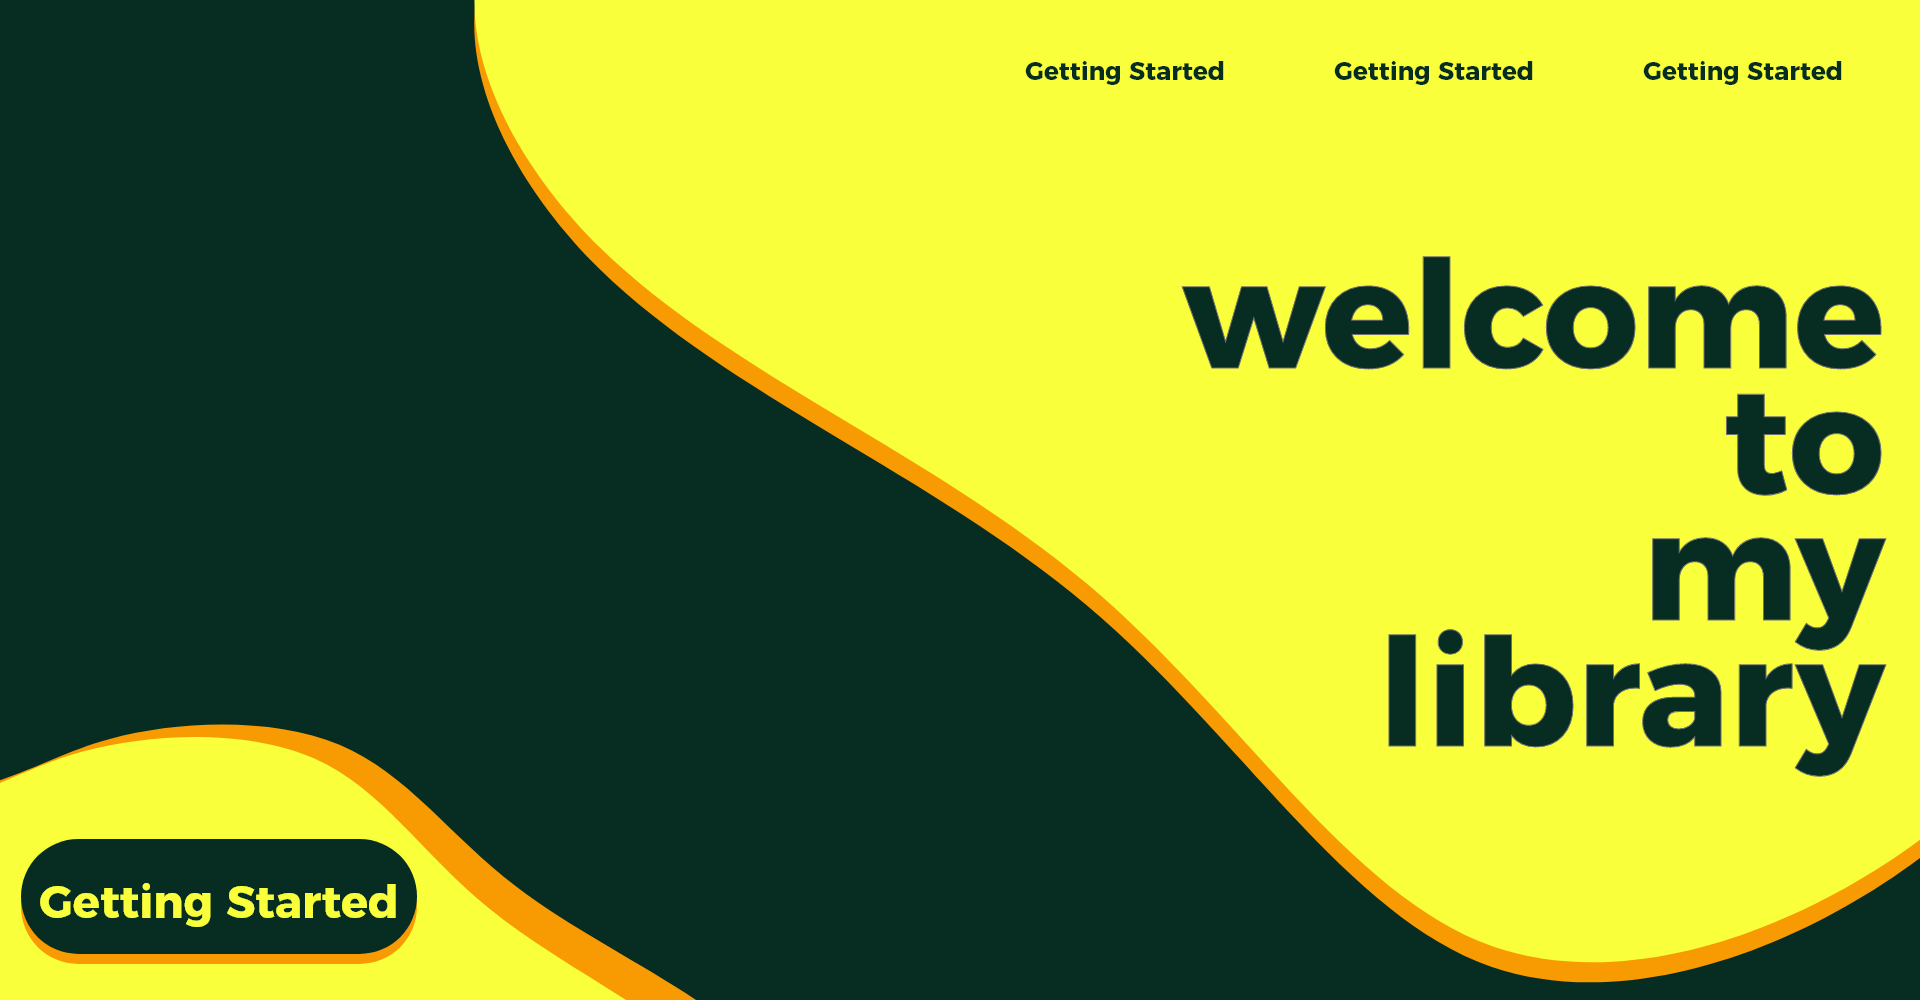
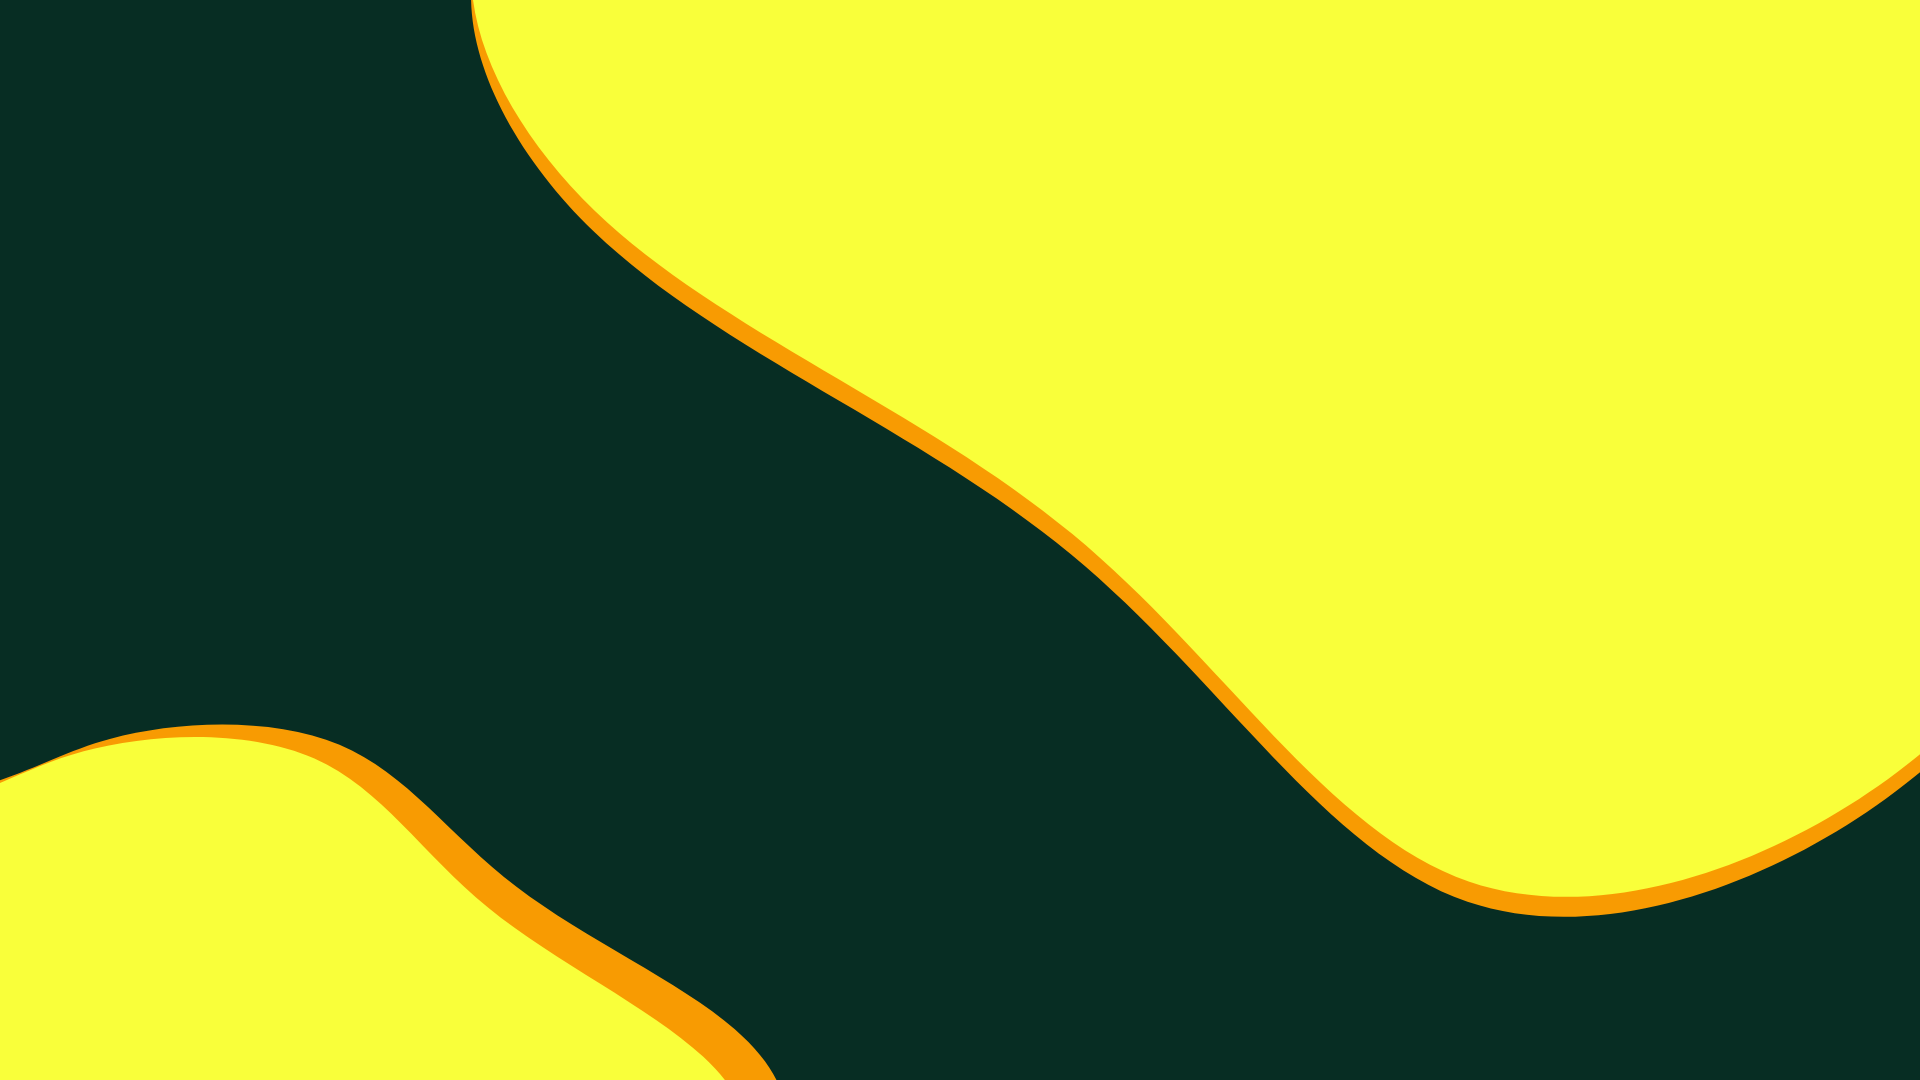
update

diff --git a/landing.css b/landing.css
@@ -1,0 +1,104 @@
+*{
+    margin: 0;
+    padding: 0;
+    font-family: 'Poppins', sans-serif;
+
+}
+:root {
+    --backgroundColor: rgba(7,45,35,1);
+    --colorShadeA: rgba(248,155,2,1);
+
+  } 
+.landing
+{
+    background-image: url(/assests/mm/landing.png);
+    min-height: 100vh;
+    width: 100%;
+     background-size: cover;
+    position: relative ;
+}
+.welcome
+{     
+		position: relative;
+		overflow: visible;
+		font-size: 400px;
+        line-height: 0.8;
+		text-align: right;
+		font-family: Montserrat;
+		font-style: normal;
+		font-weight: bolder;
+		color: rgba(7,45,35,1);
+        padding-right: 150px;
+        padding-top:400px
+}
+.Group_btn 
+{
+    font-size: 50px;
+
+  } 
+  
+  button {
+    position: relative;
+    display: inline-block;
+    cursor: pointer;
+    outline: none;
+    border: 0;
+    vertical-align: middle;
+    text-decoration: none;
+    font-size: inherit;
+    font-family: inherit;
+  }
+  
+  button.learn-more {
+    font-weight: 600;
+    color: #F9FF3A;
+    text-transform: uppercase;
+    padding: 1.25em 2em;
+    background: #072D23;
+    border-radius: 60px;
+    -webkit-transform-style: preserve-3d;
+            transform-style: preserve-3d;
+    -webkit-transition: background 150ms cubic-bezier(0, 0, 0.58, 1), -webkit-transform 150ms cubic-bezier(0, 0, 0.58, 1);
+    transition: background 150ms cubic-bezier(0, 0, 0.58, 1), -webkit-transform 150ms cubic-bezier(0, 0, 0.58, 1);
+    transition: transform 150ms cubic-bezier(0, 0, 0.58, 1), background 150ms cubic-bezier(0, 0, 0.58, 1);
+    transition: transform 150ms cubic-bezier(0, 0, 0.58, 1), background 150ms cubic-bezier(0, 0, 0.58, 1), -webkit-transform 150ms cubic-bezier(0, 0, 0.58, 1);
+  }
+  
+  button.learn-more::before {
+    position: absolute;
+    content: '';
+    width: 100%;
+    height: 100%;
+    top: 0;
+    left: 0;
+    right: 0;
+    bottom: 0;
+    background: #F89B02;
+    border-radius: inherit;
+    -webkit-transform: translate3d(0, 0.5em, -1em);
+            transform: translate3d(0, 0.5em, -1em);
+    -webkit-transition: -webkit-transform 150ms cubic-bezier(0, 0, 0.58, 1), -webkit-box-shadow 150ms cubic-bezier(0, 0, 0.58, 1);
+    transition: -webkit-transform 150ms cubic-bezier(0, 0, 0.58, 1), -webkit-box-shadow 150ms cubic-bezier(0, 0, 0.58, 1);
+    transition: transform 150ms cubic-bezier(0, 0, 0.58, 1), box-shadow 150ms cubic-bezier(0, 0, 0.58, 1);
+    transition: transform 150ms cubic-bezier(0, 0, 0.58, 1), box-shadow 150ms cubic-bezier(0, 0, 0.58, 1), -webkit-transform 150ms cubic-bezier(0, 0, 0.58, 1), -webkit-box-shadow 150ms cubic-bezier(0, 0, 0.58, 1);
+  }
+  
+  button.learn-more:hover {
+    background: #072D23;
+    -webkit-transform: translate(0, 0.25em);
+            transform: translate(0, 0.25em);
+  }
+  
+  button.learn-more:active {
+    background: #072D23;
+    -webkit-transform: translate(0em, 0.75em);
+            transform: translate(0em, 0.75em);
+  }
+  
+  button.learn-more:active::before {
+    -webkit-box-shadow: 0 0 0 2px #b18597, 0 0 #ffe3e2;
+            box-shadow: 0 0 0 2px #b18597, 0 0 #ffe3e2;
+    -webkit-transform: translate3d(0, 0, -1em);
+            transform: translate3d(0, 0, -1em);
+  }
+  /*# sourceMappingURL=button.css.map */

diff --git a/button.css b/button.css
@@ -1,0 +1,82 @@
+.Group_btn {
+  font-family: 'Rubik', sans-serif;
+  font-size: 50px;
+  line-height: 1.5;
+  display: -webkit-box;
+  display: -ms-flexbox;
+  display: flex;
+  -webkit-box-align: center;
+      -ms-flex-align: center;
+          align-items: center;
+  -webkit-box-pack: center;
+      -ms-flex-pack: center;
+          justify-content: center;
+  margin: 0;
+  min-height: 100vh;
+}
+
+button {
+  position: relative;
+  display: inline-block;
+  cursor: pointer;
+  outline: none;
+  border: 0;
+  vertical-align: middle;
+  text-decoration: none;
+  font-size: inherit;
+  font-family: inherit;
+}
+
+button.learn-more {
+  font-weight: 600;
+  color: #F9FF3A;
+  text-transform: uppercase;
+  padding: 1.25em 2em;
+  background: #072D23;
+  border-radius: 60px;
+  -webkit-transform-style: preserve-3d;
+          transform-style: preserve-3d;
+  -webkit-transition: background 150ms cubic-bezier(0, 0, 0.58, 1), -webkit-transform 150ms cubic-bezier(0, 0, 0.58, 1);
+  transition: background 150ms cubic-bezier(0, 0, 0.58, 1), -webkit-transform 150ms cubic-bezier(0, 0, 0.58, 1);
+  transition: transform 150ms cubic-bezier(0, 0, 0.58, 1), background 150ms cubic-bezier(0, 0, 0.58, 1);
+  transition: transform 150ms cubic-bezier(0, 0, 0.58, 1), background 150ms cubic-bezier(0, 0, 0.58, 1), -webkit-transform 150ms cubic-bezier(0, 0, 0.58, 1);
+}
+
+button.learn-more::before {
+  position: absolute;
+  content: '';
+  width: 100%;
+  height: 100%;
+  top: 0;
+  left: 0;
+  right: 0;
+  bottom: 0;
+  background: #F89B02;
+  border-radius: inherit;
+  -webkit-transform: translate3d(0, 0.5em, -1em);
+          transform: translate3d(0, 0.5em, -1em);
+  -webkit-transition: -webkit-transform 150ms cubic-bezier(0, 0, 0.58, 1), -webkit-box-shadow 150ms cubic-bezier(0, 0, 0.58, 1);
+  transition: -webkit-transform 150ms cubic-bezier(0, 0, 0.58, 1), -webkit-box-shadow 150ms cubic-bezier(0, 0, 0.58, 1);
+  transition: transform 150ms cubic-bezier(0, 0, 0.58, 1), box-shadow 150ms cubic-bezier(0, 0, 0.58, 1);
+  transition: transform 150ms cubic-bezier(0, 0, 0.58, 1), box-shadow 150ms cubic-bezier(0, 0, 0.58, 1), -webkit-transform 150ms cubic-bezier(0, 0, 0.58, 1), -webkit-box-shadow 150ms cubic-bezier(0, 0, 0.58, 1);
+}
+
+button.learn-more:hover {
+  background: #072D23;
+  -webkit-transform: translate(0, 0.25em);
+          transform: translate(0, 0.25em);
+}
+
+button.learn-more:active {
+  background: #072D23;
+  -webkit-transform: translate(0em, 0.75em);
+          transform: translate(0em, 0.75em);
+}
+
+button.learn-more:active::before {
+  -webkit-box-shadow: 0 0 0 2px #b18597, 0 0 #ffe3e2;
+          box-shadow: 0 0 0 2px #b18597, 0 0 #ffe3e2;
+  -webkit-transform: translate3d(0, 0, -1em);
+          transform: translate3d(0, 0, -1em);
+}
+/*# sourceMappingURL=button.css.map */

diff --git a/button.scss b/button.scss
@@ -1,0 +1,57 @@
+.Group_btn{
+	 font-family: 'Rubik', sans-serif;
+	 font-size: 50px;
+	 line-height: 1.5;
+	 display: flex;
+	 align-items: center;
+	 justify-content: center;
+	 margin: 0;
+	 min-height: 100vh;
+}
+ button {
+	 position: relative;
+	 display: inline-block;
+	 cursor: pointer;
+	 outline: none;
+	 border: 0;
+	 vertical-align: middle;
+	 text-decoration: none;
+	 font-size: inherit;
+	 font-family: inherit;
+}
+ button.learn-more {
+	 font-weight: 600;
+	 color: #F9FF3A;
+	 text-transform: uppercase;
+	 padding: 1.25em 2em;
+	 background: #072D23;
+	 border-radius: 60px;
+	 transform-style: preserve-3d;
+	 transition: transform 150ms cubic-bezier(0, 0, 0.58, 1), background 150ms cubic-bezier(0, 0, 0.58, 1);
+}
+ button.learn-more::before {
+	 position: absolute;
+	 content: '';
+	 width: 100%;
+	 height: 100%;
+	 top: 0;
+	 left: 0;
+	 right: 0;
+	 bottom: 0;
+	 background: #F89B02;
+	 border-radius: inherit;
+	 transform: translate3d(0, 0.5em, -1em);
+	 transition: transform 150ms cubic-bezier(0, 0, 0.58, 1), box-shadow 150ms cubic-bezier(0, 0, 0.58, 1);
+}
+ button.learn-more:hover {
+	 background: #072D23;
+	 transform: translate(0, 0.25em);
+};
+ button.learn-more:active {
+	 background: #072D23;
+	 transform: translate(0em, 0.75em);
+}
+ button.learn-more:active::before {
+	 box-shadow: 0 0 0 2px #b18597, 0 0 #ffe3e2;
+	 transform: translate3d(0, 0, -1em);
+}

diff --git a/landing.html b/landing.html
@@ -1,0 +1,27 @@
+<!DOCTYPE html>
+<html lang="en">
+<head>
+    <meta charset="UTF-8">
+    <meta http-equiv="X-UA-Compatible" content="IE=edge">
+    <meta name="viewport" content="width=device-width, initial-scale=1.0">
+    <title>Document</title>
+    <link rel="stylesheet" href="landing.css">
+    </head>
+<body>
+    <section class="landing">
+        <div class="welcome">
+            welcome
+            <br> 
+            to
+            <br> 
+            my
+            <br> 
+            library
+        </div>
+        <div class="Group_btn">
+            <button class="learn-more">Getting Started</button>
+        </div>
+    </section>
+    
+</body>
+</html>

diff --git a/button.html b/button.html
@@ -4,12 +4,10 @@
     <meta charset="UTF-8">
     <meta http-equiv="X-UA-Compatible" content="IE=edge">
     <meta name="viewport" content="width=device-width, initial-scale=1.0">
-    <title>Login</title>
-    <link rel="stylesheet" href="loginpage.css">
+    <title>Document</title>
+    <link rel="stylesheet" href="button.css">
 </head>
 <body>
-    <section class="login">
-    </section>
-    
+    <button class="learn-more">Learn More</button>
 </body>
 </html>

diff --git a/loginpage.css b/loginpage.css
@@ -10,13 +10,14 @@
   
 .login
 {
-    background-color:  rgba(7,45,35,1);
+    background-image: url(/assests/mm/login.png);
     min-height: 100vh;
     width: 100%;
      background-size: cover;
     position: relative ;
 }
-.upperblob
-{
-    background-image: url(/assests/mm/uperblob.svg);
-}
+/* img{
+
+    height:85%;
+    width:100%;
+} */
